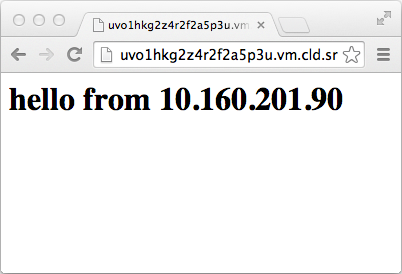
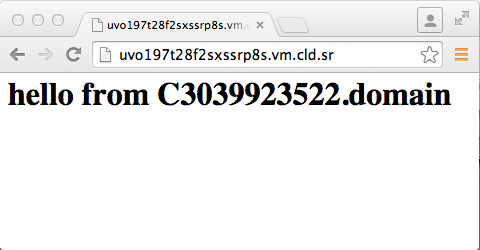
fix IP address confusion
Address feedback from
https://learn.chef.io/manage-a-node/rhel/bootstrap-your-node/#comment-19
14819207.

Changed region(s): [[0.0, 0.028, 1.0, 0.42], [0.0, 0.644, 1.0, 1.0], [0.9851, 0.448, 1.0, 0.616]]

diff --git a/source/manage-a-node/rhel/bootstrap-your-node/4/_index.md b/source/manage-a-node/rhel/bootstrap-your-node/4/_index.md
@@ -32,4 +32,6 @@ Tags:
 
 The second thing that happened was that your node did an initial check in with the Chef server and ran the Apache cookbook. To verify this, open a web browser from your workstation and navigate to your web server.
 
-![The basic home page](misc/webserver-basic.png)
+![The basic home page](misc/webserver-basic-remote.png)
+
+[WARN] The IP address that's returned by the `knife node show` command is often the node's _internal_ IP address. Make sure you're using your node's public IP address or host name.

diff --git a/source/manage-a-node/ubuntu/bootstrap-your-node/4/_index.md b/source/manage-a-node/ubuntu/bootstrap-your-node/4/_index.md
@@ -32,4 +32,6 @@ Tags:
 
 The second thing that happened was that your node did an initial check in with the Chef server and ran the Apache cookbook. To verify this, open a web browser from your workstation and navigate to your web server.
 
-![The basic home page](misc/webserver-basic.png)
+![The basic home page](misc/webserver-basic-remote.png)
+
+[WARN] The IP address that's returned by the `knife node show` command is often the node's _internal_ IP address. Make sure you're using your node's public IP address or host name.

diff --git a/source/manage-a-node/windows/bootstrap-your-node/5/_index.md b/source/manage-a-node/windows/bootstrap-your-node/5/_index.md
@@ -32,4 +32,6 @@ Tags:
 
 The second thing that happened was that your node did an initial check in with the Chef server and ran the IIS cookbook. To verify this, open a web browser from your workstation and navigate to your web server.
 
-![The basic home page](misc/webserver-basic.png)
+![The basic home page](misc/webserver-basic-remote.png)
+
+[WARN] The IP address that's returned by the `knife node show` command is often the node's _internal_ IP address. Make sure you're using your node's public IP address or host name.

diff --git a/source/learn-the-basics/windows/configure-a-package-and-service/4/_index.md b/source/learn-the-basics/windows/configure-a-package-and-service/4/_index.md
@@ -14,4 +14,4 @@ $ (Invoke-WebRequest localhost).Content
 
 Optionally, from a web browser on another machine, navigate to your server. You'll see something like this.
 
-![The basic home page](misc/webserver-basic.png)
+![The basic home page](misc/webserver-basic-remote.png)

diff --git a/source/manage-a-node/windows/update-your-nodes-configuration/4/_index.md b/source/manage-a-node/windows/update-your-nodes-configuration/4/_index.md
@@ -2,6 +2,6 @@
 
 Open a web browser from your workstation and navigate to your web server.
 
-![The home page with FQDN](windows/webserver-template.png)
+![The home page with FQDN](misc/webserver-template-remote.png)
 
 Chef discovers and adds the FQDN for you automatically!

diff --git a/source/manage-a-node/rhel/update-your-nodes-configuration/4/_index.md b/source/manage-a-node/rhel/update-your-nodes-configuration/4/_index.md
@@ -2,6 +2,6 @@
 
 Open a web browser from your workstation and navigate to your web server.
 
-![The home page with FQDN](misc/webserver-template.png)
+![The home page with FQDN](misc/webserver-template-remote.png)
 
 Chef discovers and adds the FQDN for you automatically!

diff --git a/source/manage-a-node/ubuntu/update-your-nodes-configuration/4/_index.md b/source/manage-a-node/ubuntu/update-your-nodes-configuration/4/_index.md
@@ -2,6 +2,6 @@
 
 Open a web browser from your workstation and navigate to your web server.
 
-![The home page with FQDN](misc/webserver-template.png)
+![The home page with FQDN](misc/webserver-template-remote.png)
 
 Chef discovers and adds the FQDN for you automatically!

diff --git a/source/learn-the-basics/rhel/configure-a-package-and-service/5/_index.md b/source/learn-the-basics/rhel/configure-a-package-and-service/5/_index.md
@@ -14,4 +14,4 @@ $ curl localhost
 
 Optionally, from a web browser on another machine, navigate to your server. You'll see something like this.
 
-![The basic home page](misc/webserver-basic.png)
+![The basic home page](misc/webserver-basic-remote.png)

diff --git a/source/learn-the-basics/ubuntu/configure-a-package-and-service/4/_index.md b/source/learn-the-basics/ubuntu/configure-a-package-and-service/4/_index.md
@@ -14,4 +14,4 @@ $ curl localhost
 
 Optionally, from a web browser on another machine, navigate to your server. You'll see something like this.
 
-![The basic home page](misc/webserver-basic.png)
+![The basic home page](misc/webserver-basic-remote.png)
